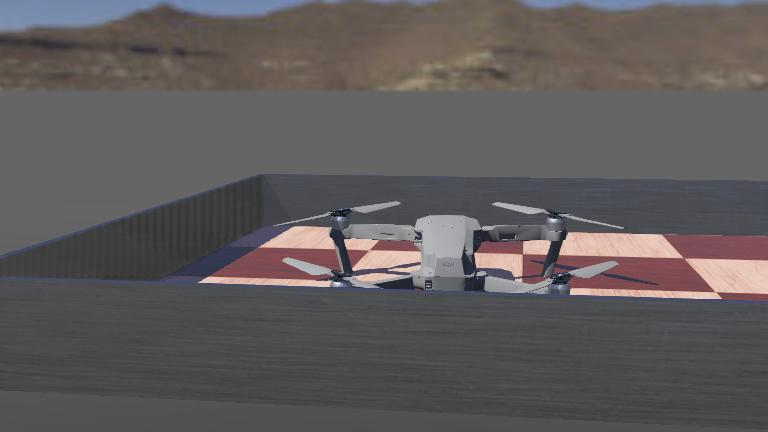
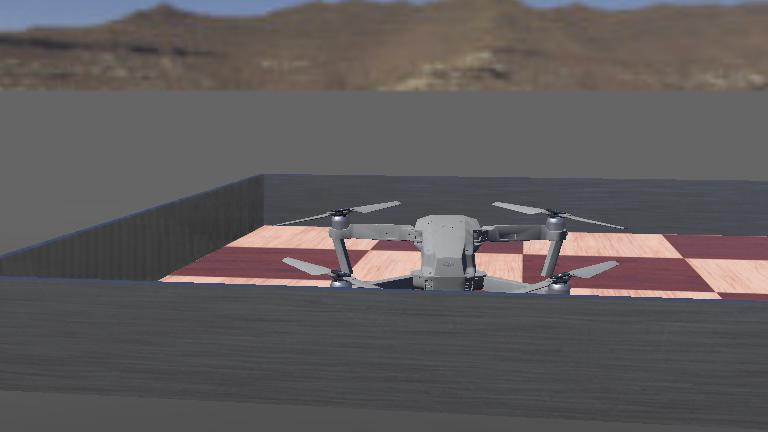
fix moving origin error (hopefully)
Also removed old code

diff --git a/controllers/drone_controller/mapping.py b/controllers/drone_controller/mapping.py
@@ -35,17 +35,17 @@ class Mapping:
     Occupancy grid map
     """
 
-    _map = np.ones((1, 1, 1), dtype='f')
-    start_cell = np.array([0, 0, 0])
+    _map = np.ones((1, 1, 1), dtype='float64')
+    origin = np.array([0, 0, 0])
 
     def __init__(self, block_length_mm: float, robot_size_blocks: int):
         self.block_length = block_length_mm / 1000
         self.robot_size_blocks = robot_size_blocks
 
     def _extend_to(self, coords: tuple[int, int, int]) -> np.ndarray:
-        prev_start = self.start_cell.copy()
+        prev_start = self.origin.copy()
         map_shape = (self._map.shape - np.ones(3)).astype('i')
-        self.start_cell = self.start_cell + (map_shape - np.maximum(map_shape, np.array(coords))) - (
+        self.origin = self.origin + (map_shape - np.maximum(map_shape, np.array(coords))) - (
                 np.zeros(3) + np.minimum(np.zeros(3), np.array(coords)))
         # print(f"({abs(min(0, coords[0]))}, {max(0, coords[0]-map_shape[0])}), ({abs(min(0, coords[1]))}, {max(0, coords[1]-map_shape[1])}), ({abs(min(0, coords[2]))}, {max(0, coords[2]-map_shape[2])})")
         self._map = np.pad(self._map, pad_width=(
@@ -53,17 +53,17 @@ class Mapping:
             (abs(min(0, coords[1])), max(0, coords[1] - map_shape[1])),
             (abs(min(0, coords[2])), max(0, coords[2] - map_shape[2]))),
                            mode='constant', constant_values=1)
-        return self.start_cell - prev_start
+        return self.origin - prev_start
 
-    def initialise_blocks_in_range(self, robot_loc_blocks: np.ndarray, radius: float) -> np.ndarray:
+    def initialise_blocks_in_range(self, robot_map_index: np.ndarray, radius: float) -> np.ndarray:
         new_blocks_max_dist: int = math.ceil(radius / self.block_length)
         new_blocks: list[tuple[int, int, int]] = [(x, y, z) for x in range(
-            robot_loc_blocks[0].astype("i") - new_blocks_max_dist,
-            robot_loc_blocks[0].astype("i") + new_blocks_max_dist + 1)
-                                                  for y in range(robot_loc_blocks[1].astype("i") - new_blocks_max_dist,
-                                                                 robot_loc_blocks[1].astype("i") + new_blocks_max_dist + 1)
-                                                  for z in range(robot_loc_blocks[2].astype("i") - new_blocks_max_dist,
-                                                                 robot_loc_blocks[2].astype("i") + new_blocks_max_dist + 1)]
+            robot_map_index[0].astype("i") - new_blocks_max_dist,
+            robot_map_index[0].astype("i") + new_blocks_max_dist + 1)
+                                                  for y in range(robot_map_index[1].astype("i") - new_blocks_max_dist,
+                                                                 robot_map_index[1].astype("i") + new_blocks_max_dist + 1)
+                                                  for z in range(robot_map_index[2].astype("i") - new_blocks_max_dist,
+                                                                 robot_map_index[2].astype("i") + new_blocks_max_dist + 1)]
         change_vec = np.zeros(3)
         for new_block in new_blocks:
             if not ((new_block[0] + change_vec[0] < self._map.shape[0]) and (
@@ -74,8 +74,8 @@ class Mapping:
                 change_vec = change_vec + self._extend_to((int(new_block[0] + change_vec[0]),
                                                            int(new_block[1] + change_vec[1]),
                                                            int(new_block[2] + change_vec[2])))
-        robot_loc_blocks = (robot_loc_blocks + change_vec).astype("i")
-        return robot_loc_blocks
+        robot_map_index = (robot_map_index + change_vec).astype("i")
+        return robot_map_index
 
     def update(self, heading_angle: float, robot_loc: np.ndarray, lidar, lidar_axis: tuple[int, int] = (0, 1)):
         """
@@ -93,7 +93,8 @@ class Mapping:
         # extend map
         robot_loc_blocks = meters_to_blocks(robot_loc, self.block_length)
         robot_loc_remainder = robot_loc % self.block_length
-        robot_loc_blocks = self.initialise_blocks_in_range(robot_loc_blocks, lidar.getMaxRange())
+        robot_map_index = self.initialise_blocks_in_range(robot_map_index=robot_loc_blocks+self.origin, radius=lidar.getMaxRange())
+        robot_loc_blocks = robot_map_index - self.origin
         robot_loc = blocks_to_meters(robot_loc_blocks, self.block_length) + robot_loc_remainder
 
         # get lidar values
@@ -136,30 +137,6 @@ class Mapping:
             self._map[indices[0], indices[1], indices[2]] = self._map[indices[0], indices[1], indices[2]] + np.sum(
                 update_val) + 0  # <- prior = 0 for now
             # print(f"Loc {indices}, map {self._map[indices[0], indices[1], indices[2]] + np.sum(update_val) + 0}")
-
-        # for (i, j, k) in np.ndindex(self._map.shape):
-        #     xy_angle = _xy_angle_calc(robot_loc, (i, j, 0)) % (2 * math.pi)
-        #     # print(f"x:{i}, y:{j}, angle:{xy_angle}, ha:{((heading_angle%(2*math.pi)) - (lidar.getFov() / 2))}, ha2:{((heading_angle%(2*math.pi)) + (lidar.getFov() / 2))}")
-        #     if (xy_angle > ((heading_angle % (2 * math.pi)) - (lidar.getFov() / 2))) and (
-        #             xy_angle < ((heading_angle % (2 * math.pi)) + (lidar.getFov() / 2))) and (
-        #             np.sqrt((i - robot_loc[0]) ** 2 + (j - robot_loc[1]) ** 2) <= (lidar.getMaxRange() // self.block_length))):
-        #         # print(f"Len: {len(readings)}")
-        #         for reading in readings:
-        #             reading_x: float = ((reading[0] * np.cos(reading[1])) / self.block_length) + robot_loc[0]
-        #             reading_y: float = ((reading[0] * np.sin(reading[1])) / self.block_length) + robot_loc[1]
-        #             if (i - reading_x < 0) and (i - reading_x > -1) and (j - reading_y < 0) and (
-        #                     j - reading_y > -1):
-        #                 ism = learning_rate / 2
-        #             elif (i - reading_x < -1) and (j - reading_y < -1):
-        #                 ism = - learning_rate / 2
-        #             else:
-        #                 ism = 0
-        #             if ism != 0:
-        #                 print(
-        #                     f"x:{i}, y:{j}, angle:{xy_angle}, ha:{((heading_angle % (2 * math.pi)) - (lidar.getFov() / 2))}, ha2:{((heading_angle % (2 * math.pi)) + (lidar.getFov() / 2))}")
-        #                 print(f"Ism: {ism}")
-        #                 print(self._map)
-        #             self._map[i, j, robot_loc[2]] = ism + self._map[i, j, robot_loc[2]] - 0  # let 0 = prior
 
     def get(self):
         return self._map

diff --git a/controllers/drone_controller/drone_controller.py b/controllers/drone_controller/drone_controller.py
@@ -65,7 +65,7 @@ while robot.step(timestep) != -1:
         # Ben
     # For debugging
     if (prints > 0) and (loops % prints == 0):
-        print(mapping.get())
+        # print(mapping.get())
         print(mapping.get().shape)
     loops += 1
 
